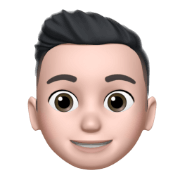
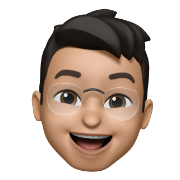
Added personal images

diff --git a/src/components/cards/about/full-about.tsx b/src/components/cards/about/full-about.tsx
@@ -7,7 +7,7 @@ export default function FullAboutCard() {
       <div className="w-full flex flex-col items-center justify-center text-center gap-3">
         <Image
           className="rounded-full p-3 bg-teal-100/40 dark:bg-slate-500/20"
-          src="/me/smile-square.png"
+          src="/me/hi-square.png"
           alt="Ayoub Kremcht"
           width={150}
           height={150}

diff --git a/src/app/layout.tsx b/src/app/layout.tsx
@@ -6,7 +6,7 @@ import Providers from "@/lib/provider";
 import localFont from "next/font/local";
 
 export const metadata = {
-  title: "Samarth Shrivastava",
+  title: "Some Earth 🌏",
   icons: {
     icon: "/favicon.ico",
     shortcut: "/favicon-32x32.png",
